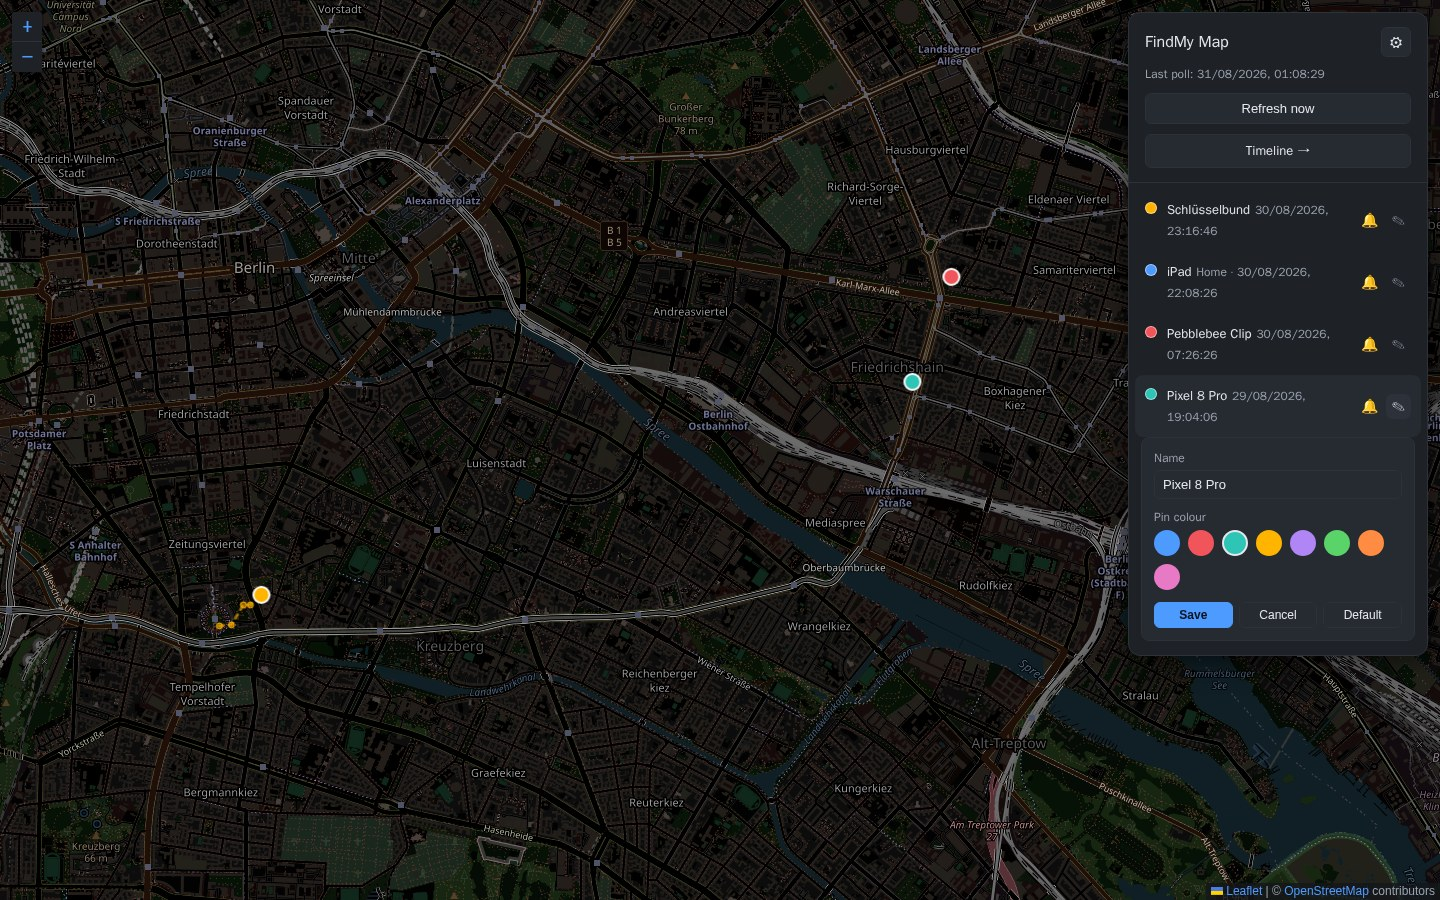
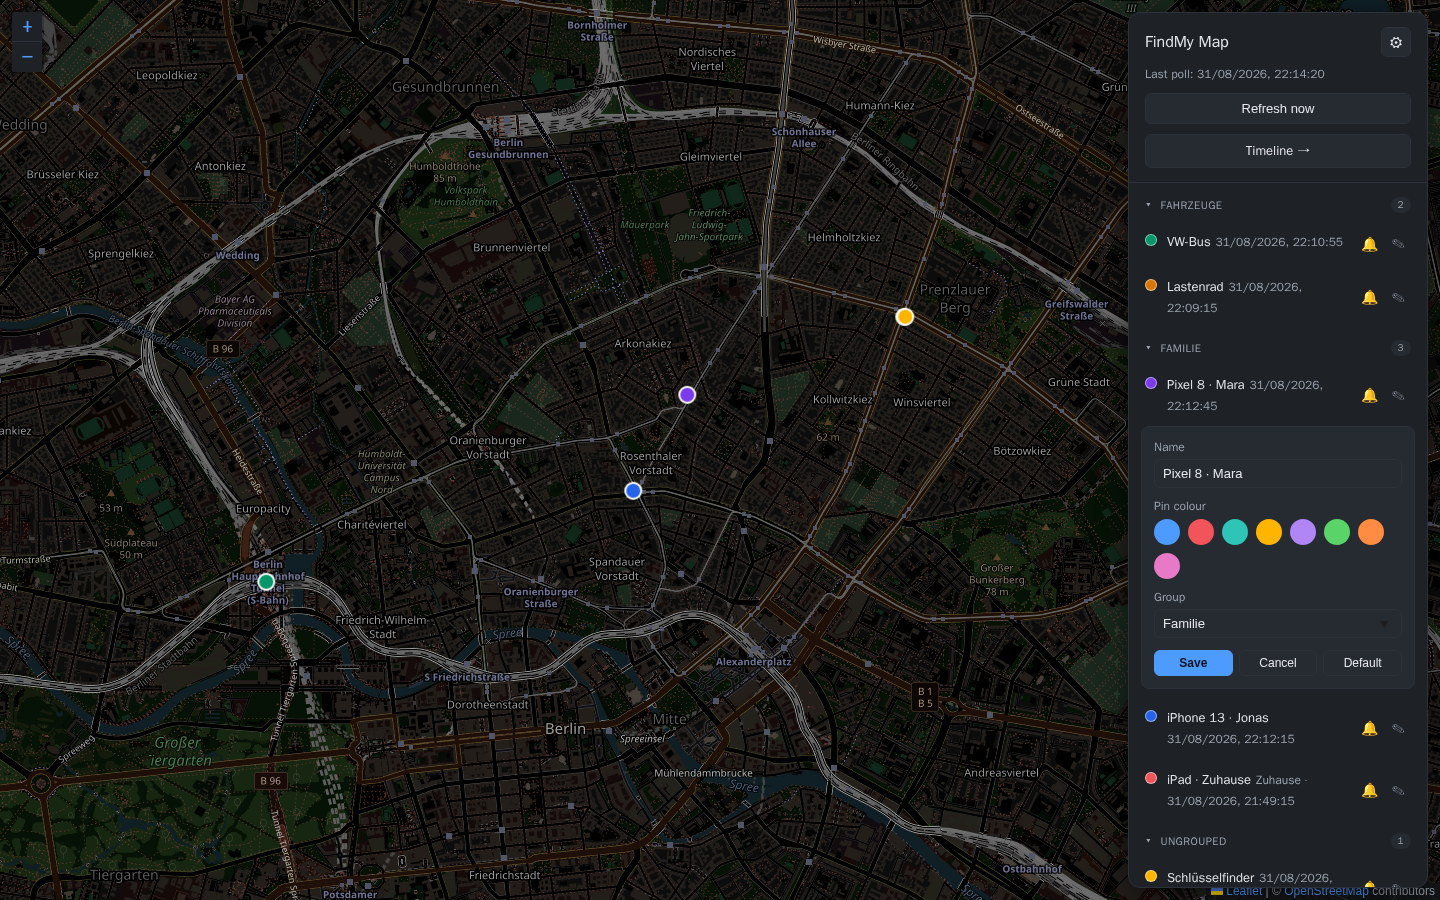
docs: refresh screenshots and demo GIF for the v0.1.4 UI
The previous assets predated device groups, the timeline day/week/month
step-through, data export and the polling-failure banner. Regenerated all
five screenshots and the demo GIF against a local instance seeded with
synthetic Berlin demo data (fictional devices, per
.claude/rules/findmy-map-public-assets.md -- no real location history),
driven headlessly via Playwright.

- map-dark / map-light / map-mobile: device list now bucketed into
  collapsible groups (Familie / Fahrzeuge / Ungrouped); map-light shows a
  collapsed group with its pins removed from the map.
- edit-device: the editor now has the "Group" field next to name and pin
  colour.
- timeline: Day/Week/Month segmented control with the prev/next stepper
  and range label, a week-long track, the visited-places list capped with
  a "show more" button, and the full GPX/GeoJSON/CSV export section
  (track + visited places).
- demo.gif: click-through of the grouped list (collapse/expand), the
  device editor, the polling-failure banner appearing and clearing, and
  the timeline stepping Day -> Week -> Month with "show more" and export.

Alt text updated to match.

Claude-Session: https://claude.ai/code/session_01EyXnqk7yykm1vH44Y2Q8Mk

diff --git a/README.md b/README.md
@@ -17,20 +17,20 @@ configured GoogleFindMyTools container**: it shares that container's
 
 ## Screenshots
 
-<img src="docs/img/map-dark.jpg" alt="Map view with several devices" width="100%">
+<img src="docs/img/map-dark.jpg" alt="Map view with devices grouped into collapsible sections" width="100%">
 
 <table>
 <tr>
-<td width="50%"><img src="docs/img/timeline.jpg" alt="Timeline: full track and a list of visited places" width="100%"></td>
-<td width="50%"><img src="docs/img/edit-device.jpg" alt="Editing a device's name and pin colour" width="100%"></td>
+<td width="50%"><img src="docs/img/timeline.jpg" alt="Timeline: day/week/month step-through, track, visited places and GPX/GeoJSON/CSV export" width="100%"></td>
+<td width="50%"><img src="docs/img/edit-device.jpg" alt="Editing a device's name, pin colour and group" width="100%"></td>
 </tr>
 <tr>
-<td><img src="docs/img/map-light.jpg" alt="Map view, light theme" width="100%"></td>
-<td align="center"><img src="docs/img/map-mobile.jpg" alt="Mobile layout with the device list as a bottom sheet" height="420"></td>
+<td><img src="docs/img/map-light.jpg" alt="Map view, light theme, with one device group collapsed" width="100%"></td>
+<td align="center"><img src="docs/img/map-mobile.jpg" alt="Mobile layout with the grouped device list as a bottom sheet" height="420"></td>
 </tr>
 </table>
 
-![Clicking through the map and the timeline](docs/img/demo.gif)
+![Clicking through the map, groups, the polling-failure banner and the timeline](docs/img/demo.gif)
 
 <sub>All screenshots use synthetic demo data (fictional devices moving around Berlin), not real location history.</sub>
 
@@ -164,10 +164,13 @@ HTTPS** (see `SECURITY.md`).
   group), geocode cache. New columns are added to an existing DB on
   startup (`_migrate_schema`).
 - `service/colors.py` (pin colour, with validation), `service/augment.py`
-  (track/name/colour per device), `service/visits.py` (clusters points into
-  stays), `service/geocode.py` (reverse geocoding via Nominatim, ≤ 1
-  request/1.1 s, negative cache + backoff).
-- `web/index.html`, `web/timeline.html`, `web/app.css`, `web/app.js`.
+  (track/name/colour/group per device), `service/visits.py` (clusters
+  points into stays), `service/geocode.py` (reverse geocoding via
+  Nominatim, ≤ 1 request/1.1 s, negative cache + backoff),
+  `service/auth.py` (the optional built-in login).
+- `web/index.html` (map), `web/timeline.html`, `web/settings.html`
+  (theme / language / login / data export / old-device deletion),
+  `web/login.html`, `web/app.css`, `web/app.js`.
 
 ## Environment variables
 
